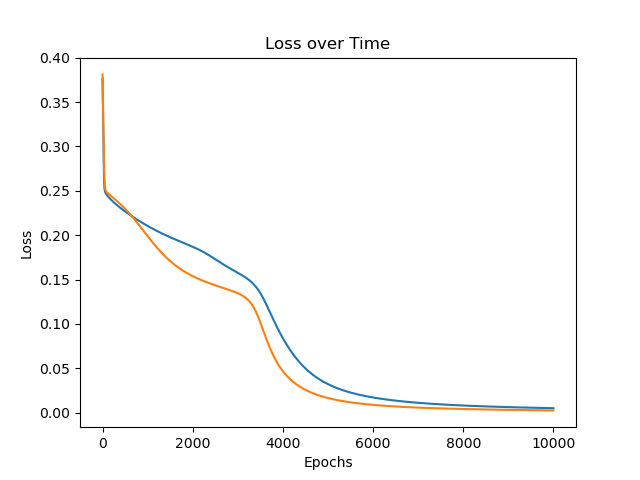
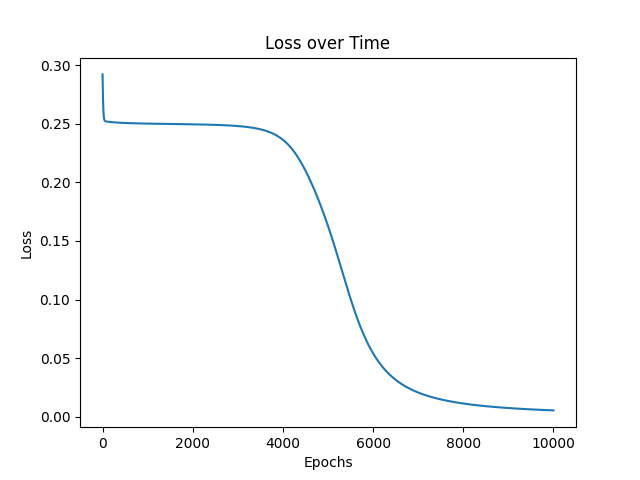
deployed to the server

diff --git a/templates/index.html b/templates/index.html
@@ -6,7 +6,6 @@
     <title>Neural Network Training</title>
     <script src="https://cdnjs.cloudflare.com/ajax/libs/socket.io/4.0.0/socket.io.js"></script>
     <style>
-        /* Centering the main content */
         body, html {
             height: 100%;
             margin: 0;
@@ -25,7 +24,7 @@
         #lossPlot {
             margin-top: 20px;
             max-width: 100%;
-            height: auto;
+            height: auto;  
             display: none;
         }
     </style>
@@ -39,12 +38,19 @@
     </div>
 
     <script>
-        const socket = io.connect('http://localhost:5000');
+        // Change the socket connection URL to the correct one (backend IP and port)
+        const socket = io('http://localhost:5000');  // Correct backend IP and port
 
         // Listen for epoch loss updates from the backend
         socket.on('epoch_loss', data => {
             document.getElementById('lossDisplay').innerHTML = 
                 `Epoch: ${data.epoch}, Loss: ${data.loss.toFixed(4)}`;
+        });
+
+        // Error handling
+        socket.on("connect_error", () => {
+            console.log("Connection failed.");
+            document.getElementById('lossDisplay').innerHTML = "Connection to the server failed.";
         });
 
         // Start training by calling the /train endpoint
@@ -54,11 +60,13 @@
             })
             .then(response => response.json())
             .then(data => {
-                document.getElementById('lossPlot').src = data.image_path;
+                document.getElementById('lossPlot').src = `${data.image_path}?t=${new Date().getTime()}`;
                 document.getElementById('lossPlot').style.display = 'block';
+            })
+            .catch(error => {
+                console.error('Error:', error);
             });
         }
     </script>
 </body>
 </html>
-

diff --git a/app.py b/app.py
@@ -1,22 +1,28 @@
+import eventlet
+eventlet.monkey_patch()  # The eventlet.monkey_patch() function is used 
+                         # to modify the standard Python libraries to enable asynchronous behavior
+
 from flask import Flask, render_template, jsonify
 from flask_socketio import SocketIO
-from Neural_Network import train_neural_network  # Import the training function
+from flask_cors import CORS
+from Neural_Network import train_neural_network
 import numpy as np
 import os
 
 app = Flask(__name__)
-socketio = SocketIO(app, cors_allowed_origins="http://127.0.0.1:5000")
+CORS(app, resources={r"/*": {"origins": "http://localhost"}})
 
+# Initialize SocketIO with eventlet
+socketio = SocketIO(app, cors_allowed_origins="*", async_mode="eventlet")
 @app.route('/')
 def index():
     return render_template('index.html')
 
 @app.route('/train', methods=['POST'])
 def train():
-    # Input and output data for XOR problem
     X = np.array([[0, 0], [0, 1], [1, 0], [1, 1]])
     Y = np.array([[0], [1], [1], [0]])
-    
+
     input_size = 2
     hidden_size = 3
     output_size = 1
@@ -24,9 +30,9 @@ def train():
     learning_rate = 0.1
 
     train_neural_network(X, Y, input_size, hidden_size, output_size, epochs, learning_rate, socketio)
-    
+
     return jsonify({'image_path': '/static/loss_plot.png'})
 
 if __name__ == '__main__':
-    socketio.run(app, debug=True)  # Run the app with SocketIO
-
+    # Run the app with eventlet for asynchronous support
+    socketio.run(app, host="0.0.0.0", port=5000, debug=True)  # Use 0.0.0.0 for external access

diff --git a/Neural_Network.py b/Neural_Network.py
@@ -2,6 +2,8 @@ import numpy as np
 import matplotlib.pyplot as plt
 import os
 
+np.random.seed(42)
+
 # Sigmoid activation function
 def sigmoid(x):
     return 1 / (1 + np.exp(-x))

diff --git a/tempCodeRunnerFile.py b/tempCodeRunnerFile.py
@@ -1,0 +1,1 @@
+train_neural_network
